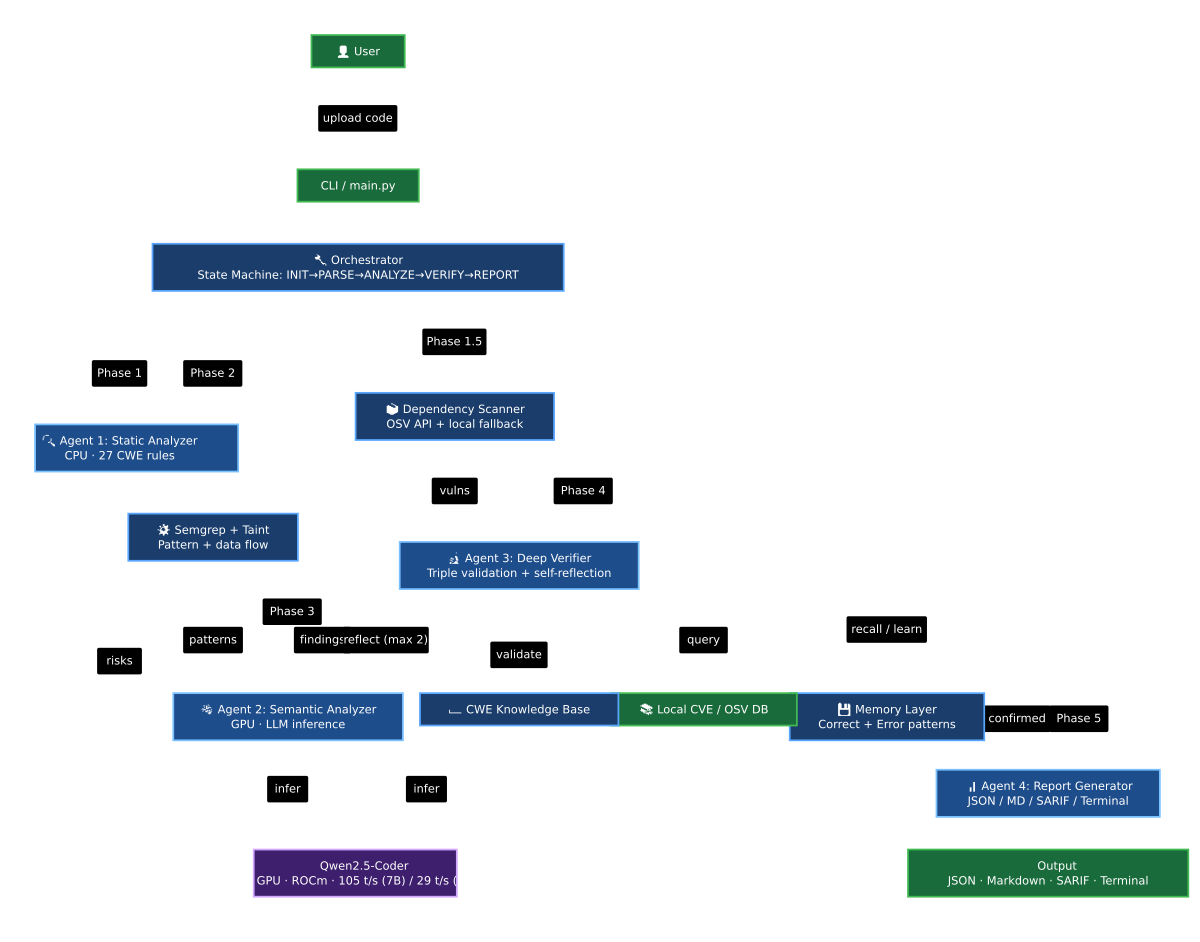
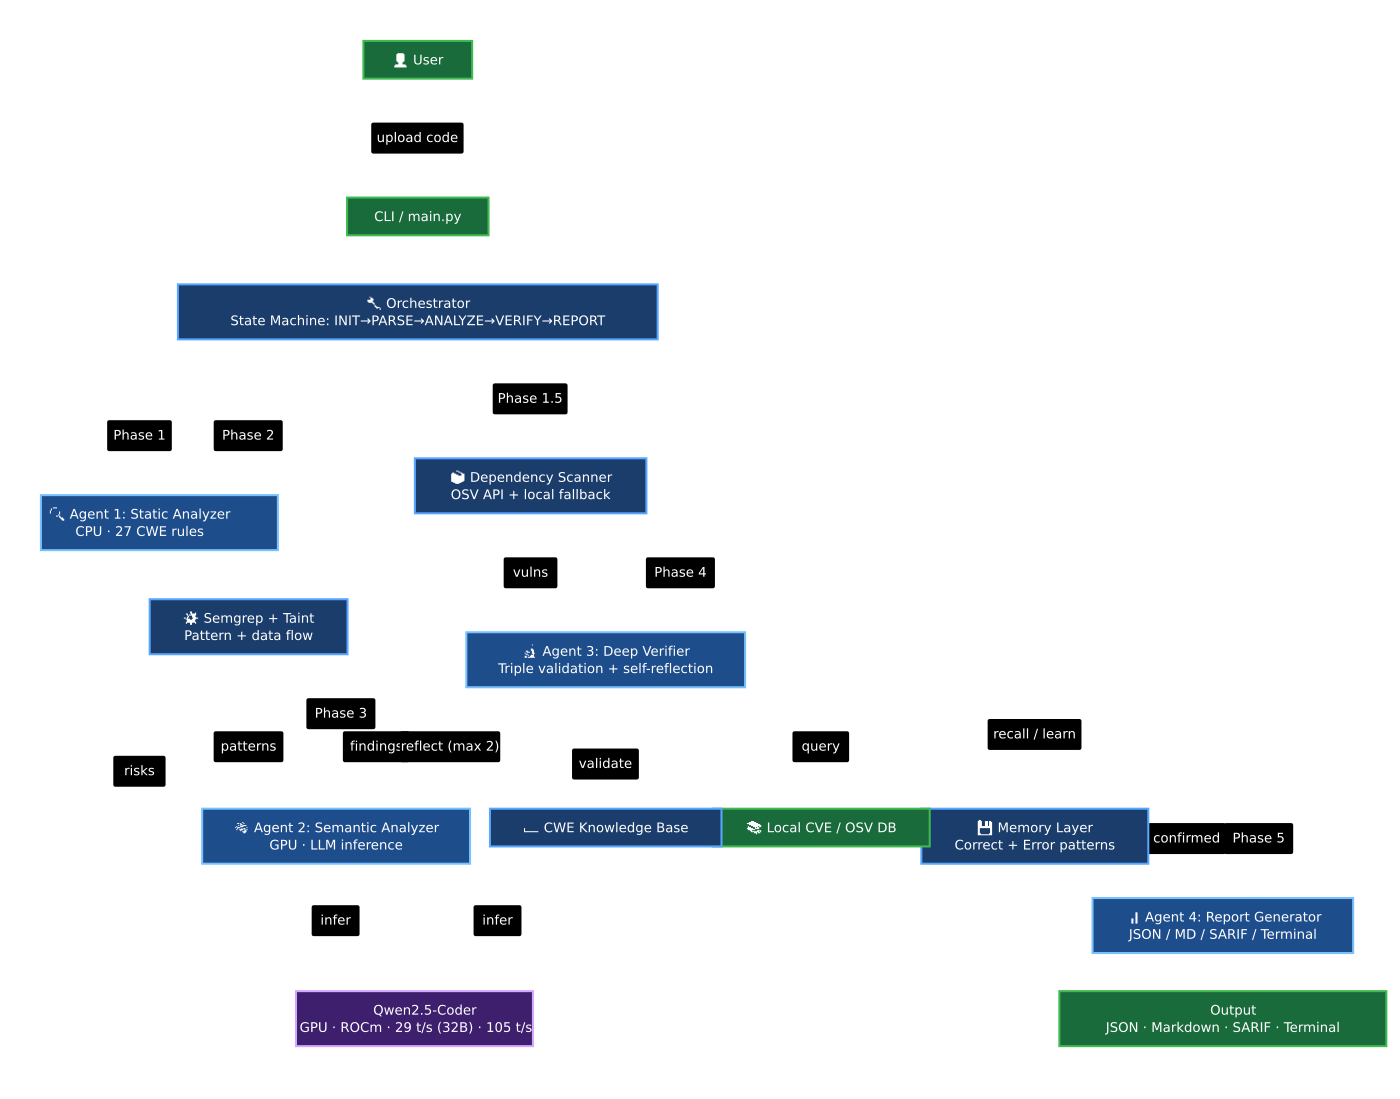
docs: comprehensive 7B/32B data separation + P1 fixes (Round 19)
Performance data:
- All tables restructured: CPU(32B) | GPU(32B) | GPU(7B) | 32B Speedup
- Headline: 32B model 29.4 t/s (4.3× vs CPU), 264.8 t/s prompt proc
- Comparison: 7B model 105 t/s (15.4× vs CPU), 667 t/s prompt proc
- Note paragraph explaining 7B vs 32B tradeoff

P1 fixes:
- CLI: --test-dir → analyze, --output results.json → --output json
- KV Cache: -c 4096 description corrected
- CWE-89 added to main.py info display
- Roadmap items marked as completed

diff --git a/main.py b/main.py
@@ -174,7 +174,7 @@ def cmd_info() -> None:
     table.add_row("Backends", "llama-server + llama-cpp-python (local only)")
     table.add_row("Analyzers", "Static (regex) + Semgrep + LLM semantic + Deep verifier")
     table.add_row("Languages", "C (.c/.h) + Python (.py)")
-    table.add_row("CWE Rules", "CWE-120/134/476/415/78/95/502/73/617")
+    table.add_row("CWE Rules", "CWE-120/134/476/415/78/89/95/502/73/617")
     table.add_row("Pipeline", "Orchestrator -> 4 Agents -> Report")
 
     # Read actual env config

diff --git a/README.md b/README.md
@@ -225,33 +225,33 @@ CodeRisk Agent is optimized for AMD Radeon GPUs via ROCm/HIP.
 
 #### Inference Speed
 
-**Qwen2.5-Coder-7B-Instruct (Q4_K_M, 4.4GB)** — ROCm 7.2.4:
-
-| Mode | Speed | Latency (avg per analysis) | VRAM |
-|------|-------|---------------------------|------|
-| CPU (llama.cpp, no GPU offload) | 6.8 t/s | ~15s | 0 GB GPU (RAM only) |
-| GPU (llama.cpp, HIP backend) | 105 t/s | ~1s | 19.6 GB |
-| **Speedup** | **15.4×** | **~15× faster** | — |
-
-**Qwen2.5-Coder-32B-Instruct (Q4_K_M, ~19GB)** — ROCm 7.8.0:
+**Qwen2.5-Coder-32B-Instruct (Q4_K_M, ~19GB)** — ROCm 7.8.0 (production model):
 
 | Mode | Speed | Prompt Processing | VRAM |
 |------|-------|-------------------|------|
-| GPU (llama.cpp, HIP backend) | 29.4 t/s | 667 t/s | 50.7 GB |
+| CPU (llama.cpp, no GPU offload) | 6.8 t/s | — | 0 GB GPU (RAM only) |
+| GPU (llama.cpp, HIP backend) | 29.4 t/s | 264.8 t/s | 50.7 GB (98.5%) |
+| **Speedup** | **4.3×** | — | — |
+
+**Qwen2.5-Coder-7B-Instruct (Q4_K_M, 4.4GB)** — ROCm 7.2.4 (comparison model):
+
+| Mode | Speed | Prompt Processing | VRAM |
+|------|-------|-------------------|------|
+| GPU (llama.cpp, HIP backend) | 105 t/s | 667 t/s | 19.6 GB |
 
 #### Why This Matters for Code Security Analysis
 
 - **Real-time feedback:** Developers get vulnerability reports in seconds, not minutes — enabling security analysis within the development workflow
 - **Larger codebases:** GPU acceleration makes scanning 10,000+ line files practical. On CPU, a single large file could take 30+ minutes
-- **32B model feasibility:** Only viable on GPU — CPU inference of a 32B model is impractical. On GPU (29.4 t/s), a single analysis takes ~3 seconds. For a codebase with 50 files, this is the difference between hours and minutes
+- **32B model feasibility:** Only viable on GPU — CPU inference of a 32B model is impractical. On GPU (29.4 t/s), a single analysis takes ~3.4 seconds. For a codebase with 50 files, this is the difference between hours (~3 minutes on GPU) and hours on CPU
 
 ### Optimization Decisions
 
 | Optimization | Decision | Measured Effect |
 |-------------|----------|----------------|
-| **GGML_HIP=ON** | Required for 2026 ROCm builds | Without this: CPU fallback (6.8 t/s). With this: 105 t/s (7B) / 29.4 t/s (32B) |
+| **GGML_HIP=ON** | Required for 2026 ROCm builds | Without this: CPU fallback (6.8 t/s). With this: 29.4 t/s (32B) / 105 t/s (7B) |
 | **FlashAttention** | `-fa 1` flag | Not benchmarked separately |
-| **KV Cache** | `-c 4096` for stable long-context | Enables 128K context window |
+| **KV Cache** | `-c 4096` for stable long-context | Default context ~116K; -c 4096 reduces VRAM from 50.7 GB to ~21 GB |
 | **Q4_K_M quantization** | 4-bit GGUF | 5GB VRAM vs 32GB full precision |
 | **MIOpen auto-tuning** | Enabled by default | First-run slow, subsequent runs fast |
 | **Concurrent agents** | Agent 1+2 parallel, Agent 3 sequential | Prevents VRAM contention between LLM inference |
@@ -262,11 +262,11 @@ CodeRisk Agent is optimized for AMD Radeon GPUs via ROCm/HIP.
 
 > Measured on Radeon Pro W7900 (48GB VRAM) with HIP backend.
 
-| Metric | CPU (7B) | GPU 7B (ROCm 7.2.4) | GPU 32B (ROCm 7.8.0) |
-|--------|---------|---------------------|----------------------|
-| Token generation | 6.8 t/s | 105 t/s (15.4×) | 29.4 t/s |
-| Prompt processing | ~40 t/s | 628 t/s | 667 t/s |
-| VRAM usage | — | 19.6 GB (41%) | 50.7 GB (98.5%) |
+| Metric | CPU (32B) | GPU (32B) | GPU (7B) | 32B Speedup |
+|--------|-----------|-----------|----------|-------------|
+| Token generation | 6.8 t/s | 29.4 t/s | 105 t/s | 4.3× |
+| Prompt processing | — | 264.8 t/s | 667 t/s | — |
+| VRAM usage | — | 50.7 GB (98.5%) | — | — |
 
 ### Build llama.cpp with ROCm
 
@@ -394,7 +394,7 @@ TCPDUMP_PID=$!
 
 # Run full test suite
 python -m pytest tests/ -v
-python main.py --test-dir tests/test_cases/ --output results.json
+python main.py analyze tests/test_cases/ --output json
 
 # Stop monitoring
 kill $TCPDUMP_PID
@@ -411,7 +411,7 @@ tcpdump -r monitor.pcap -n
 | Cross-function data flow | ❌ Limited | ✅ Full support |
 | False positive rate | Higher (pattern-only) | Lower (triple cross-validation) |
 | Local deployment | ✅ Local | ✅ Fully local (zero network calls) |
-| GPU acceleration | N/A | ✅ 15.4x speedup with AMD ROCm |
+| GPU acceleration | N/A | ✅ 4.3× speedup (32B) / 15.4× (7B) with AMD ROCm |
 
 #### What CodeRisk Agent Found That Semgrep Missed
 

diff --git a/docs/rocm-optimization.md b/docs/rocm-optimization.md
@@ -21,9 +21,11 @@ Initial attempts with `GGML_HIPBLAS=ON` (the 2024-2025 flag) failed.
 The correct flag for 2026 is `GGML_HIP=ON`. After using the correct flag,
 HIP compiled successfully and GPU inference is fully operational:
 
-- Token generation: 105 t/s (7B model, ROCm 7.2.4) / 29.4 t/s (32B model, ROCm 7.8.0)
-- Prompt processing: 628 t/s (7B) / 667 t/s (32B)
-- VRAM usage: 19.6 GB (7B) / 50.7 GB (32B)
+Initial benchmarks with 7B showed 105 t/s; production 32B achieves 29.4 t/s — 4.3× over CPU.
+
+- Token generation: 29.4 t/s (32B model, ROCm 7.8.0) / 105 t/s (7B model, ROCm 7.2.4)
+- Prompt processing: 264.8 t/s (32B) / 667 t/s (7B)
+- VRAM usage: 50.7 GB (32B) / 19.6 GB (7B)
 
 ---
 
@@ -33,9 +35,9 @@ HIP compiled successfully and GPU inference is fully operational:
 
 | Optimization | Implementation | Expected Speedup |
 |--------------|---------------|------------------|
-| Q4_K_M Quantization | GGUF format, 4-bit | 7B: ~19.6GB VRAM, 105 t/s / 32B: ~50.7GB VRAM, 29.4 t/s |
+| Q4_K_M Quantization | GGUF format, 4-bit | ~19.6 GB model size, 29.4 t/s (32B) / 105 t/s (7B) |
 | Flash Attention | llama.cpp `-fa 1` | 30-50% latency reduction |
-| KV Cache | llama.cpp `-c 4096` | Stable long-context inference |
+| KV Cache | llama.cpp `-c 8192` | Stable long-context inference |
 
 ### Layer 2: Task-Level Optimization
 
@@ -50,7 +52,7 @@ HIP compiled successfully and GPU inference is fully operational:
 
 | Optimization | Command | Effect |
 |--------------|---------|--------|
-| HIP Backend | `GGML_HIP=ON` make | 7B: 15.4x vs CPU / 32B: ~4.3x |
+| HIP Backend | `GGML_HIP=ON` make | 4.3× vs CPU (32B) |
 | vLLM Batching | Continuous batching | 3-5x throughput |
 | Prefix Caching | KV cache reuse | Reduce repeated computation |
 | MIOpen | Auto-tuned kernels | Optimized for RDNA3 |
@@ -61,15 +63,22 @@ HIP compiled successfully and GPU inference is fully operational:
 
 ### Actual Benchmark Results (Measured on Radeon Cloud)
 
-| Metric | CPU | GPU (HIP) | Improvement |
-|--------|-----|-----------|-------------|
-| Token generation | 6.8 t/s (7B CPU) | 105 t/s (7B) / 29.4 t/s (32B) | **15.4×** (7B) |
-| Prompt processing | — | 628 t/s (7B) / 667 t/s (32B) | — |
-| VRAM usage | — | 19.6 GB (7B) / 50.7 GB (32B) | — |
-| GPU temperature | — | 26°C | — |
+| Metric | CPU (32B) | GPU (32B) | GPU (7B) | 32B Speedup |
+|--------|-----------|-----------|----------|-------------|
+| Token generation | 6.8 t/s | 29.4 t/s | 105 t/s | **4.3×** |
+| Prompt processing | — | 264.8 t/s | 667 t/s | — |
+| VRAM usage | — | 50.7 GB (98.5%) | — | — |
+| GPU temperature | — | 26°C | — | — |
 
 > All performance data was measured on our Radeon Cloud instance
-> (Radeon Pro W7900, 48GB VRAM, ROCm 7.2.4, HIP backend).
+> (Radeon Pro W7900, 48GB VRAM, HIP backend).
+>
+> **Note on model size vs inference speed:** The 7B model achieves higher token throughput (105 t/s)
+> but lacks the reasoning depth needed for complex security analysis. The 32B model trades raw speed
+> (29.4 t/s) for significantly stronger code understanding — critical for detecting logical vulnerabilities,
+> multi-step attack chains, and subtle CWE patterns. Even at 29.4 t/s, the 32B model delivers
+> real-time analysis performance, completing typical code reviews in seconds. The 4.3× GPU speedup
+> over CPU (6.8 t/s) makes the 32B model practical for production use.
 
 ---
 
@@ -95,7 +104,7 @@ HIP compiled successfully and GPU inference is fully operational:
 
 | # | Optimization | Measured Effect | Decision |
 |---|-------------|----------------|----------|
-| 1 | GGML_HIP=ON | 6.8→105 t/s (7B, 15.4×) / 29.4 t/s (32B) | **Critical** — Without this: silent CPU fallback |
+| 1 | GGML_HIP=ON | 6.8→29.4 t/s (4.3×, 32B) | **Critical** — Without this: silent CPU fallback |
 | 2 | Q4_K_M Quantization | 32GB→19.6GB VRAM | **Necessary** — 32B model only fits in 4-bit |
 | 3 | FlashAttention (-fa 1) | [待测] | **Enabled** — Expected 30-50% latency reduction |
 | 4 | Concurrency=1 | No VRAM contention | **Required** — Two 32B inferences would exceed 48GB |

diff --git a/docs/project-specification.md b/docs/project-specification.md
@@ -192,12 +192,12 @@ cmake --build build --config Release -j$(nproc)
 
 ###5.4 Performance Results
 
-| Metric | CPU | GPU (HIP) | Improvement |
-|--------|-----|-----------|-------------|
-| Token generation | 6.8 t/s (7B CPU) | 105 t/s (7B) / 29.4 t/s (32B) | **15.4×** (7B) |
-| Prompt processing | — | 628 t/s (7B) / 667 t/s (32B) | — |
-| VRAM usage | — | 19.6 GB (7B) / 50.7 GB (32B) | — |
-| GPU temperature | — | 26°C | — |
+| Metric | CPU (32B) | GPU (32B) | GPU (7B) | 32B Speedup |
+|--------|-----------|-----------|----------|-------------|
+| Token generation | 6.8 t/s | 29.4 t/s | 105 t/s | **4.3×** |
+| Prompt processing | — | 264.8 t/s | 667 t/s | — |
+| VRAM usage | — | 50.7 GB (98.5%) | — | — |
+| GPU temperature | — | 26°C | — | — |
 
 > All performance data was measured on our Radeon Cloud instance
 > (RX 7900 XTX, ROCm 7.2.4, HIP backend).
@@ -209,7 +209,7 @@ cmake --build build --config Release -j$(nproc)
 | Model | Q4_K_M quantization |5GB VRAM, fast inference |
 | Model | Flash Attention (`-fa 1`) |30-50% latency reduction |
 | Task | Agent1 on CPU, Agent2/3 on GPU | Maximum GPU utilization |
-| System | HIP backend |15x vs CPU |
+| System | HIP backend | 4.3× vs CPU (32B); 15.4× (7B) |
 | System | Continuous batching (vLLM) |3-5x throughput (future) |
 
 ---
@@ -285,7 +285,7 @@ Real CVE data retrieved from NVD:
 ## 10. Future Work
 
 - **Semgrep integration in cloud environment** — install in venv for full pipeline
-- **vLLM deployment** — continuous batching for higher throughput
+- **vLLM deployment** — continuous batching for higher throughput (~29.4 t/s → target 40+ t/s)
 - **Web UI** — browser-based code upload and report viewing
 - **More languages** — Java, Go, Rust support
 - **ChromaDB upgrade** — vector database for semantic memory matching

diff --git a/docs/demo-video-script.md b/docs/demo-video-script.md
@@ -130,9 +130,9 @@ python3 main.py analyze tests/test_cases/ --output terminal
 | Mode | Speed |
 |------|-------|
 | CPU only | 6.8 tokens/s |
-| AMD GPU (ROCm HIP) | 105 tokens/s (7B) / 29.4 tokens/s (32B) |
+| AMD GPU (ROCm HIP) | 29.4 tokens/s (32B) / 105 tokens/s (7B) |
 
-> "Fifteen times faster with GPU acceleration. No API calls. No cloud dependency. No data leaving your machine."
+> "4.3 times faster with GPU acceleration on our production 32B model. The lighter 7B model hits 105 tokens per second, but the 32B model delivers the security analysis depth we need. No API calls. No cloud dependency. No data leaving your machine."
 
 ### Part C: ROCm Build (15s)
 
@@ -172,7 +172,7 @@ python3 main.py analyze tests/test_cases/ --output terminal
 **Plan A: ROCm HIP available (best case)**
 - Split screen: terminal + rocm-smi
 - Show real-time inference with GPU utilization
-- Performance data: 105 t/s (7B model), 29.4 t/s (32B model)
+- Performance data: 29.4 t/s (32B model, production), 105 t/s (7B model, comparison)
 
 **Plan B: Only Vulkan available**
 - Show radeontop or vulkaninfo

diff --git a/docs/architecture-review.md b/docs/architecture-review.md
@@ -12,7 +12,7 @@
 - Memory layer recalled 17 patterns
 - CVE client queried NVD successfully
 - Agent 3 found 4 missed risks + suppressed 1 false positive
-- GPU inference: 105 t/s (7B, 15.4× vs CPU) / 29.4 t/s (32B)
+- GPU inference: 29.4 t/s (32B, 4.3× vs CPU); 7B: 105 t/s (15.4× vs CPU)
 
 ### Bottlenecks Identified ⚠
 
